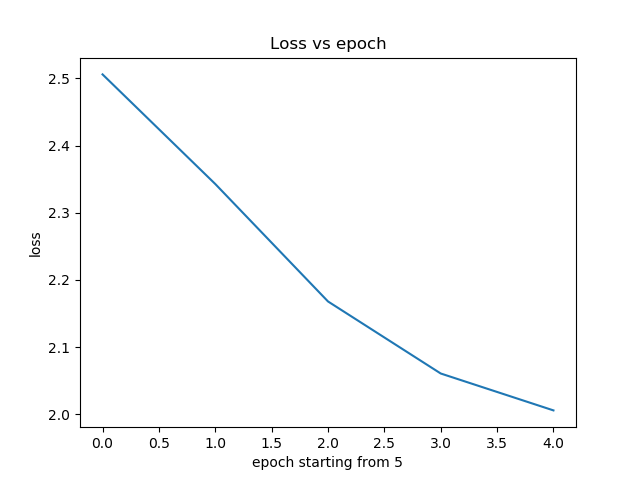
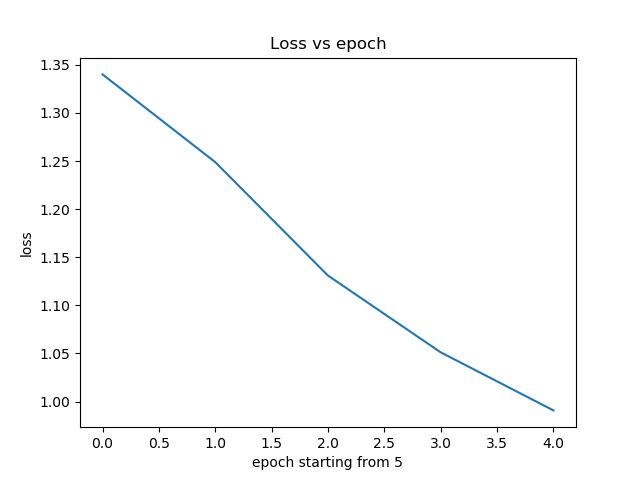
LSTM in both encoder and decoder

diff --git a/auto_encoder.py b/auto_encoder.py
@@ -7,14 +7,13 @@ from fastdtw import fastdtw
 # from  import mean_absolute_error as MAE
 
 class Encoder(tf.keras.Model):
-
-    def __init__(self, input_shape, code_size, filters, kernel_sizes):
+    def __init__(self, input_shape, code_size, filters, kernel_sizes, LSTM = False):
         super(Encoder, self).__init__()
         assert len(filters) == len(kernel_sizes)
         assert len(input_shape) == 2 # (x, y), x = # of samples, y = # of vars
         #self.input_shape = input_shape
         self.code_size = code_size
-
+        self.LSTM_layer = LSTM
         self.convs = []
         self.norms = []
         output_len = input_shape[0]
@@ -31,9 +30,10 @@ class Encoder(tf.keras.Model):
 
         self.last_kernel_shape = (output_len, output_channels)
         self.flatten = tf.keras.layers.Flatten()
+        self.LSTM = tf.keras.layers.LSTM(output_len, return_sequences=False, return_state=False)
         self.out = tf.keras.layers.Dense(code_size)
 
-    def call(self, inputs, training=False):
+    def call(self, inputs, training=False, LSTM = False):
 
         x = self.convs[0](inputs)
         x = self.norms[0](x)
@@ -41,15 +41,18 @@ class Encoder(tf.keras.Model):
             x = conv(x)
             x = norm(x, training=training)
         assert x.shape[1:] == self.last_kernel_shape
-        #print(x.shape)
+        # print(x.shape)
+        if LSTM or self.LSTM_layer:
+            x = self.LSTM(x) 
         x = self.flatten(x)
+        # print(x.shape)
+        # print(LSTM or self.LSTM_layer)
 
         x = self.out(x)
         return x
 
 class Decoder(tf.keras.Model):
-
-    def __init__(self, code_size, last_kernel_shape, output_shape, filters, kernel_sizes):
+    def __init__(self, code_size, last_kernel_shape, output_shape, filters, kernel_sizes, LSTM_size):
         super(Decoder, self).__init__()
 
         assert len(last_kernel_shape) == 2
@@ -62,6 +65,7 @@ class Decoder(tf.keras.Model):
         flat_len = last_kernel_shape[0] * last_kernel_shape[1]
 
         self.expand = tf.keras.layers.Dense(flat_len)
+        self.LSTM = tf.keras.layers.LSTM(LSTM_size, return_sequences=True, return_state=False)
         self.reshape = tf.keras.layers.Reshape(last_kernel_shape)
 
         self.convs = []
@@ -72,14 +76,23 @@ class Decoder(tf.keras.Model):
             b = tf.keras.layers.BatchNormalization()
             self.convs.append(l)
             self.norms.append(b)
+        
+        
 
     def call(self, inputs, training=False):
+        # print(np.shape(inputs))
         x = self.expand(inputs)
+        
+        # print(np.shape(x))
         x = self.reshape(x)
+        # print(np.shape(x), "hjkhkhkj")
+        x = self.LSTM(x)
+        # print(np.shape(x), "jlkjlkjl")
         for conv, norm in zip(self.convs, self.norms):
             x = norm(x, training=training)
             x = conv(x)
         assert self.expected_output_shape == x.shape[1:]
+        # print(np.shape(x), "Dsadasdasdasdasdas")
         return x
 
 _optimizer = tf.keras.optimizers.Nadam(learning_rate=0.00015)
@@ -103,63 +116,38 @@ class AutoEncoder:
         else:
             optimizer   = _optimizer
 
-        self.encode = Encoder(input_shape, code_size, filters, kernel_sizes)
+        self.encode = Encoder(input_shape, code_size, filters, kernel_sizes, LSTM = False)
 
         decoder_filters = list(filters[:len(filters)-1])
         decoder_filters.append(input_shape[1])
         last_kernel_shape = self.encode.last_kernel_shape
 
         self.decode = Decoder(code_size, last_kernel_shape, input_shape, decoder_filters,
-                kernel_sizes)
+                kernel_sizes, LSTM_size=input_shape[0])
 
         self.loss = loss
         self.optimizer = optimizer
-    
-def normalize(data):
-    """
-    Z-normalize data with shape (x, y)
-    x = # of timeseries
-    y = len of each timeseries
-    
-    s.t. each array in [., :, .] (i.e. each timeseries variable)
-    is zero-mean and unit stddev
-    """
-    # sz, l = data.shape
-    means = np.mean(data)
-    stddev = np.std(data)
-    return (data - means)/stddev
-
-def flatten_and_normalize(tensor):
-    # print(tf.reshape(tensor,[-1]))
-    return normalize(tf.reshape(tensor,[-1]))
 
 def ED(X):
     return tf.math.reduce_euclidean_norm(X, 1)
 
 # @tf.function
-def train_step(X, Y, distance, auto_encoder, optimizer=_optimizer, loss = _mse_loss, alpha = 1):
+def train_step(X, Y, distance, auto_encoder, optimizer=_optimizer, loss = _mse_loss, alpha = 1, LSTM = False):
     with tf.GradientTape() as tape:
         # print(np.shape(X))
-        X_codes = auto_encoder.encode(X, training=True)
-        Y_codes = auto_encoder.encode(Y, training=True)
+        X_codes = auto_encoder.encode(X, training=True, LSTM = LSTM)
+        Y_codes = auto_encoder.encode(Y, training=True, LSTM = LSTM)
 
         X_decodes = auto_encoder.decode(X_codes, training=True)
         Y_decodes = auto_encoder.decode(Y_codes, training=True)
         
-        # all_decodes =  tf.concat([X_decodes, Y_decodes], axis = 0)
-        # all_inputs =  tf.concat([X, Y], axis = 0)
-        # print(ED(X_codes - Y_codes))
-        # print(distance)
-        # print(X_codes, Y_codes)
-        # return
         similarity_loss = 0
         if alpha > 0:
-            subtraction = ED(X_codes - Y_codes) - distance
-            similarity_loss = tf.math.reduce_sum(subtraction) / np.shape(X)[0]
+            subtraction = tf.abs(ED(X_codes - Y_codes) - distance)
+            similarity_loss = tf.math.reduce_sum(subtraction) / np.shape(distance)
         reconstruction_loss = loss(X, X_decodes) + loss(Y, Y_decodes)
-        # reconstruction_loss = loss(all_decodes, all_inputs)
-        print("\nrec_loss:", reconstruction_loss, "simi_loss:", similarity_loss)
 
+        print("\nrec_loss:", reconstruction_loss, "simi_loss:", similarity_loss)
         loss = reconstruction_loss + alpha * similarity_loss
 
         trainables = auto_encoder.encode.trainable_variables + auto_encoder.decode.trainable_variables
@@ -167,28 +155,3 @@ def train_step(X, Y, distance, auto_encoder, optimizer=_optimizer, loss = _mse_l
     gradients = tape.gradient(loss, trainables)
     optimizer.apply_gradients(zip(gradients, trainables))
     return loss
-
-# def train_step(input, auto_encoder, optimizer=_optimizer, loss = _mse_loss):
-#     with tf.GradientTape() as tape:
-#         codes = auto_encoder.encode(input, training=True)
-#         decodes = auto_encoder.decode(codes, training=True)
-        
-#         similarity_distance = 0
-#         # distance, path = fastdtw(codes, input, dist=euclidean)
-#         for i in range(len(codes) - 1):
-#             # print(flatten_and_normalize(input[i]))
-#             # print(flatten_and_normalize(codes[i]))
-#             input_a, input_b = flatten_and_normalize(input[i]), flatten_and_normalize(input[i + 1])
-#             codes_a, codes_b = flatten_and_normalize(codes[i]), flatten_and_normalize(codes[i + 1])
-#             similarity_distance += abs(euclidean(codes_a, codes_b) - SBD(input_a, input_b))
-
-#         similarity_distance /= len(codes) - 1
-
-#         # print(loss(input, decodes), similarity_distance)
-#         loss = loss(input, decodes) + similarity_distance
-
-#         trainables = auto_encoder.encode.trainable_variables + auto_encoder.decode.trainable_variables
-
-#     gradients = tape.gradient(loss, trainables)
-#     optimizer.apply_gradients(zip(gradients, trainables))
-#     return loss

diff --git a/test.py b/test.py
@@ -11,8 +11,8 @@ from kshape import _sbd as SBD
 from auto_encoder import AutoEncoder, train_step
 from utilities import min_max, normalize, augment_data
 
-dataset = "Plane"
-EPOCHS = 10
+dataset = "GunPoint"
+EPOCHS = 500
 data_augmentation = False
 
 X_train, y_train, X_test, y_test, info = py_ts_data.load_data(dataset, variables_as_channels=True)
@@ -101,7 +101,7 @@ print("The training time is:", (time.time() - t1) / 60)
 plt.xlabel("epoch starting from 5")
 plt.ylabel("loss")
 plt.title("Loss vs epoch")
-print(loss_history[5:])
+# print(loss_history[5:])
 plt.plot(loss_history[5:])
 # plt.show()
 if not os.path.isdir("./images/" + dataset):

diff --git a/utilities.py b/utilities.py
@@ -28,7 +28,7 @@ def normalize(data):
 
 def augment_data(X_train, K = 1000, alpha = 0.1):
     # K is the target size, alpha is the fluctuated rate of fabricated data.
-    repeat_times = K // len(X_train)
+    repeat_times = K // len(X_train) - 1
     new_x_data = None
     X_train_mean = np.mean(X_train)
     for _ in range(repeat_times):
